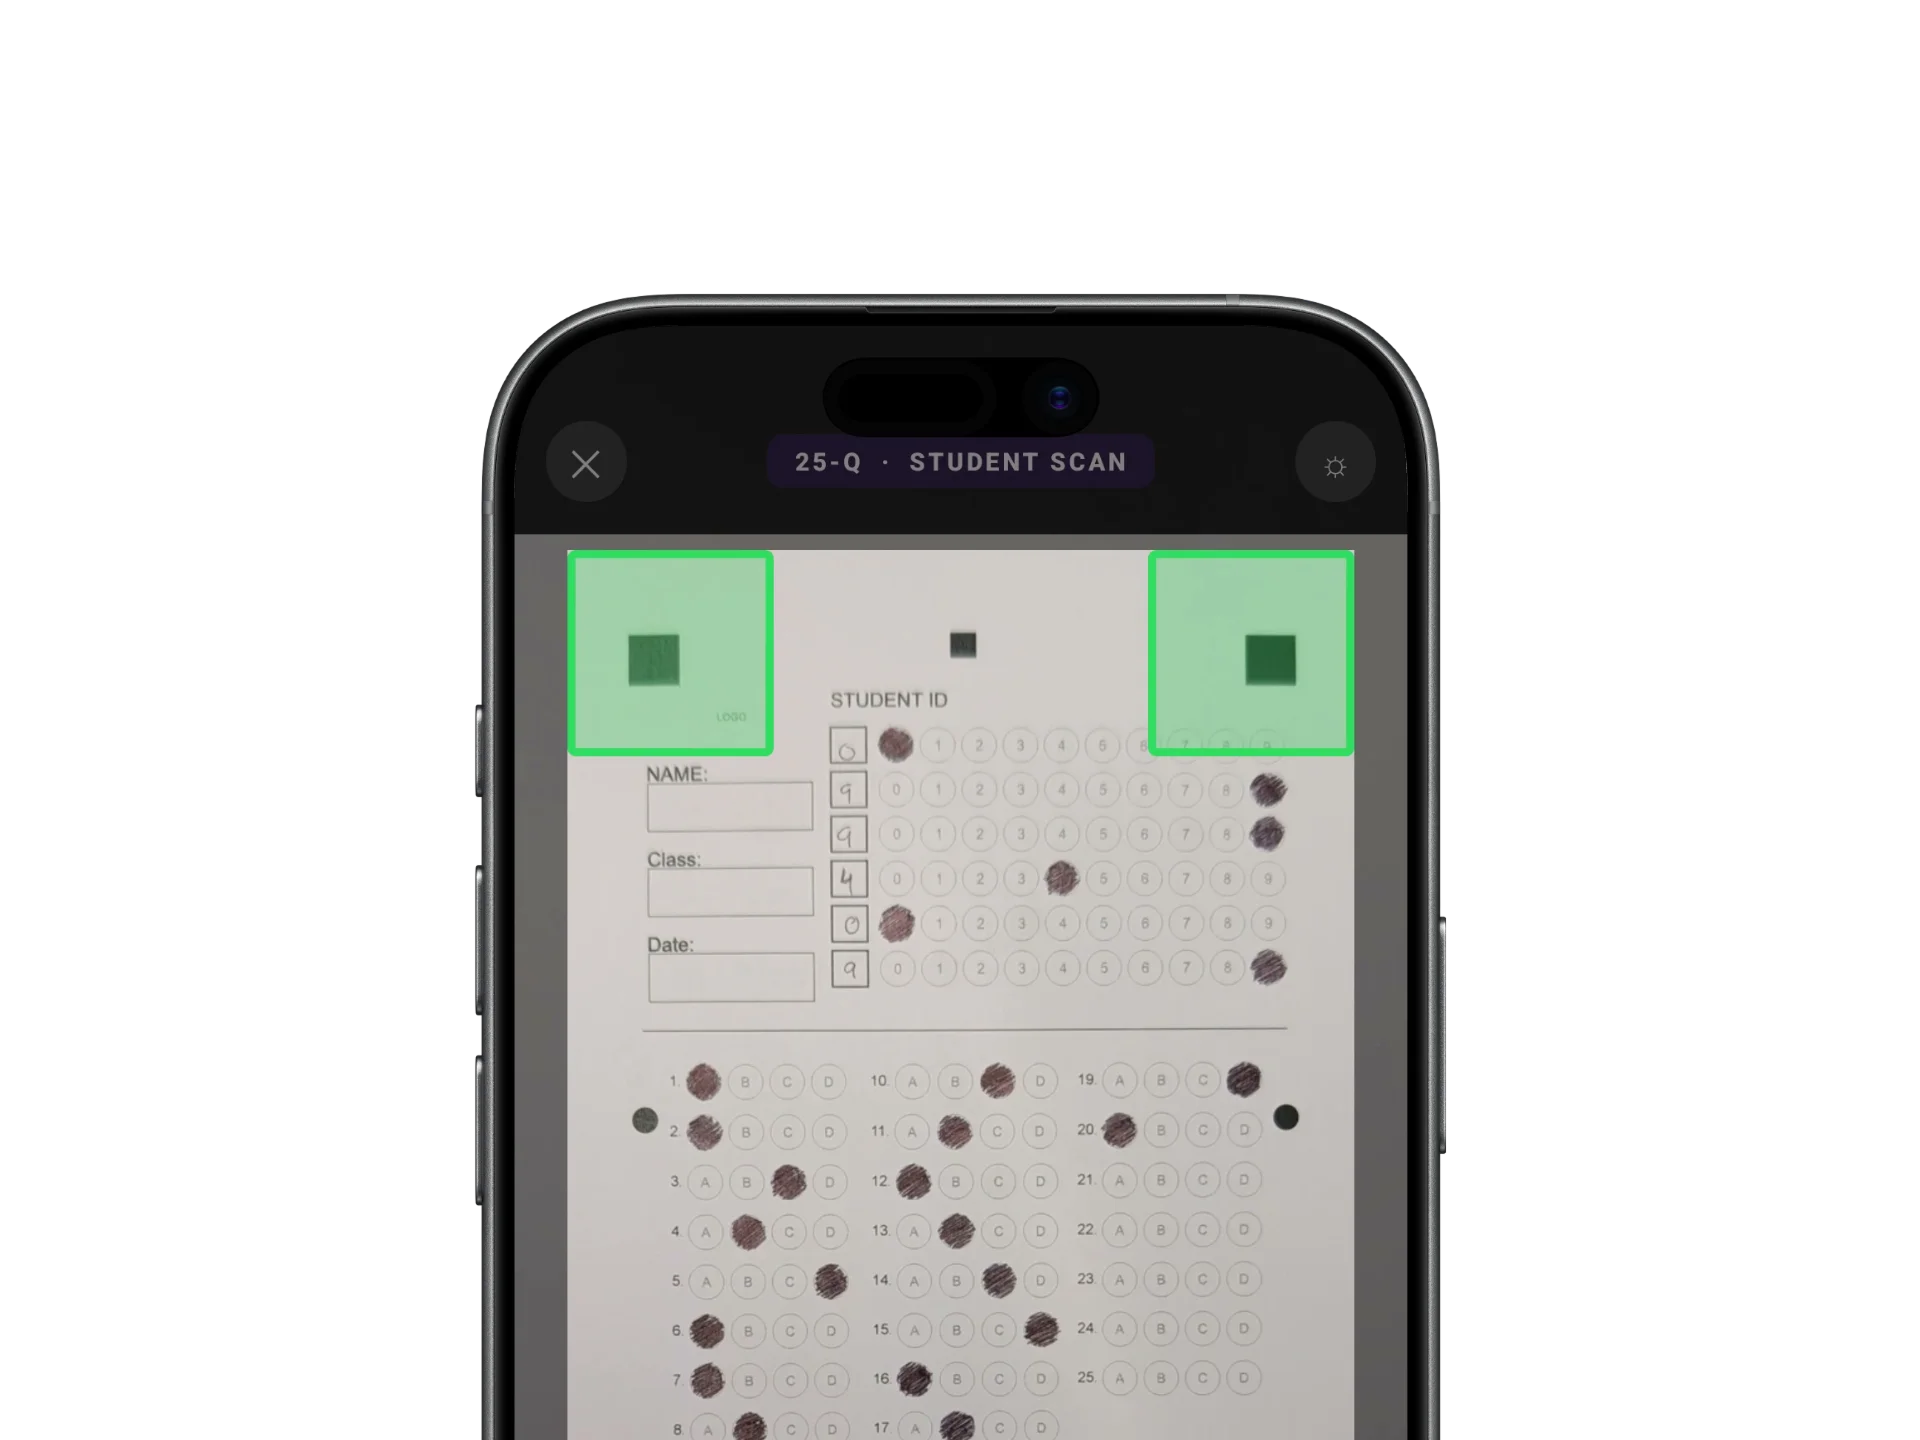
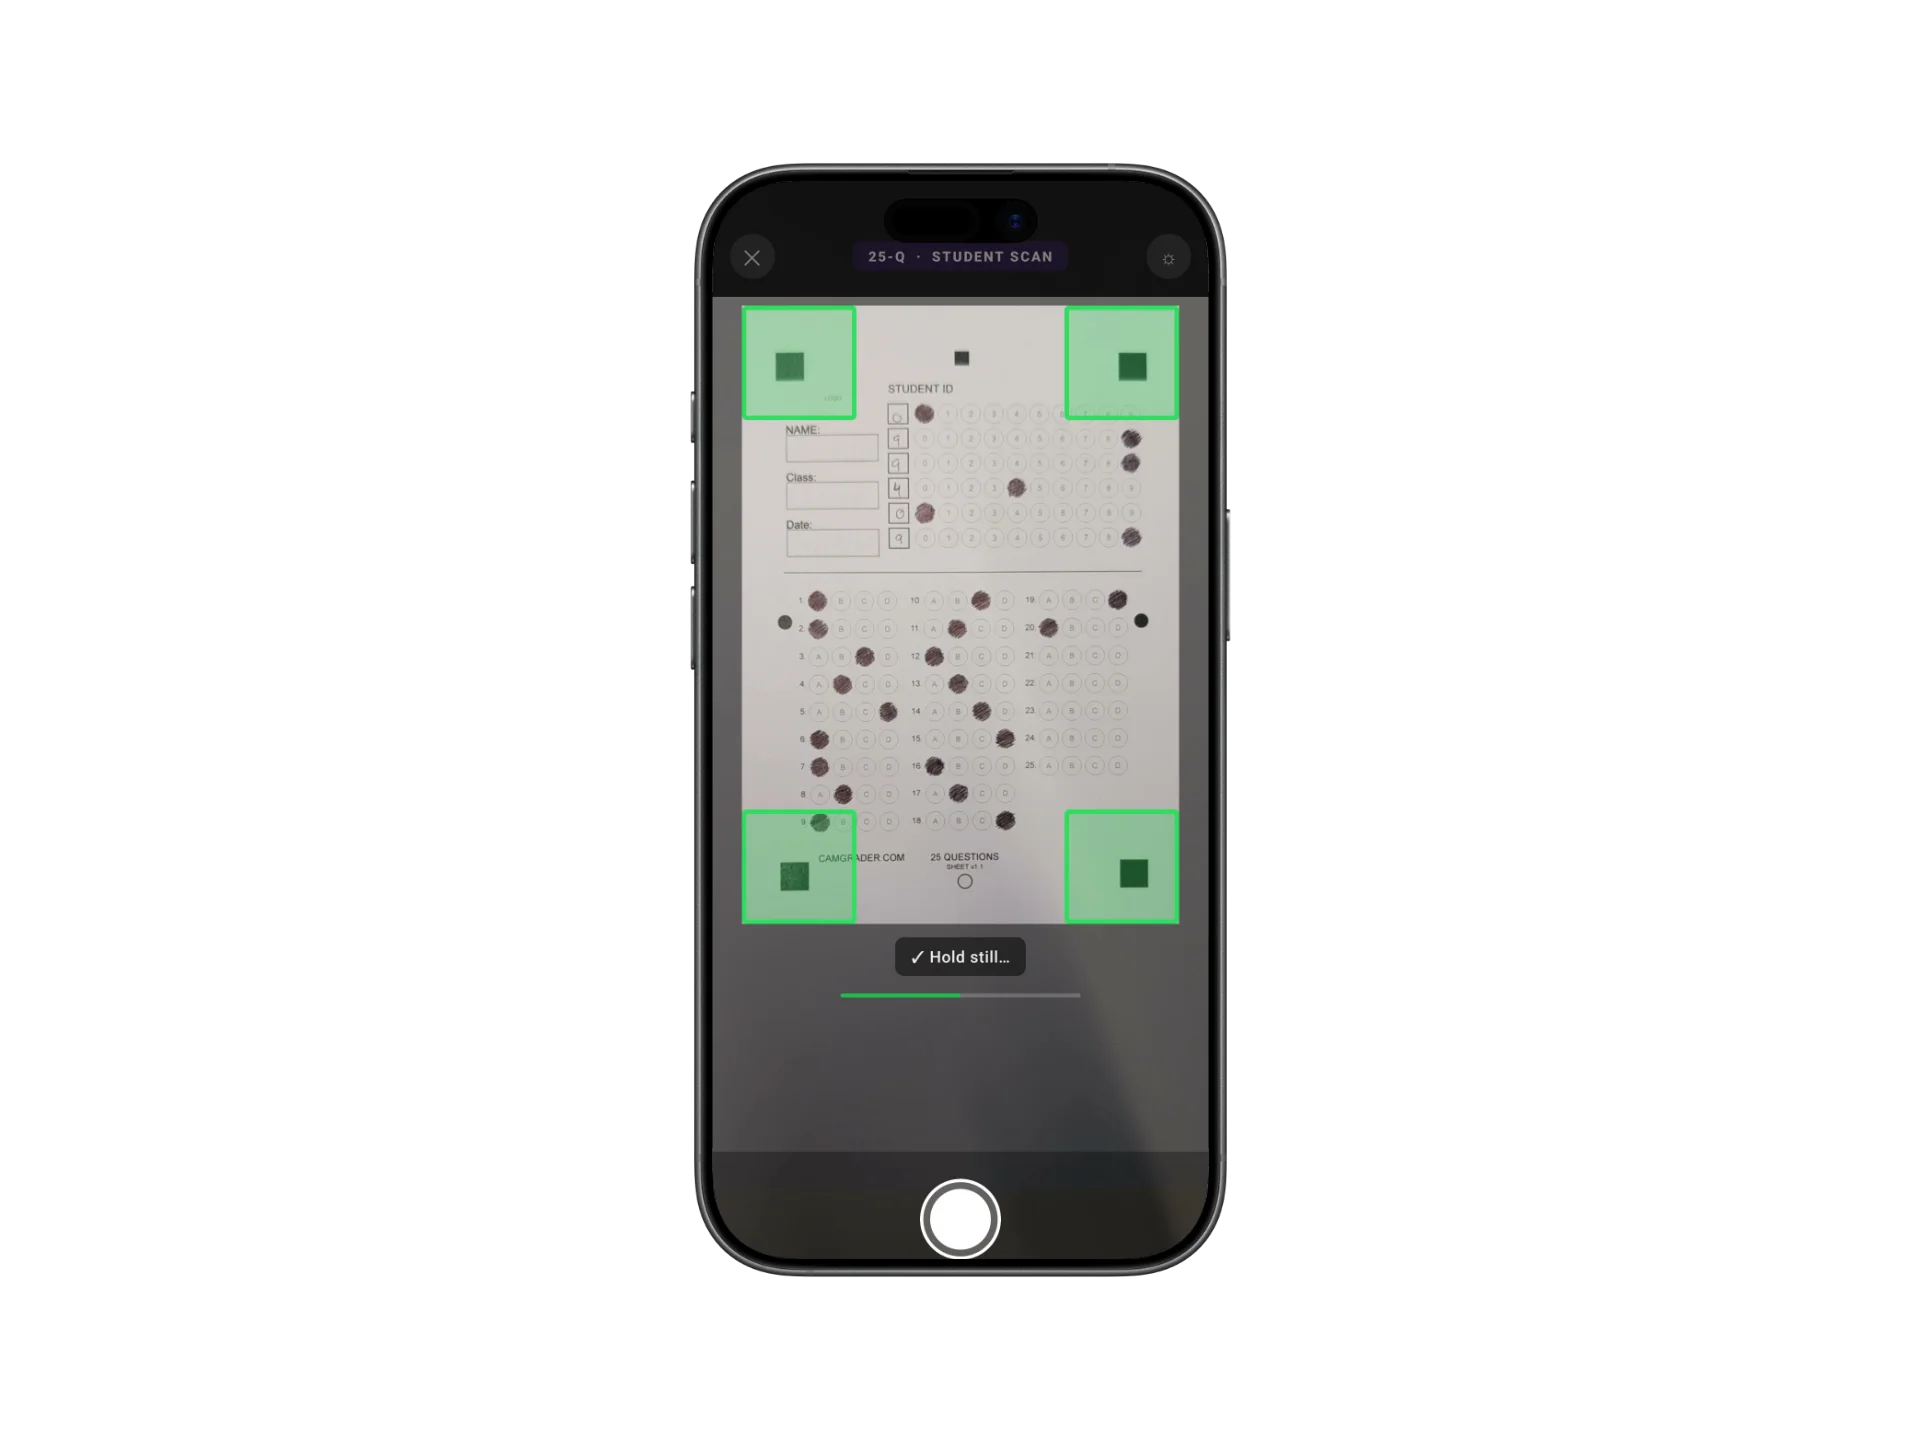
s

diff --git a/index.html b/index.html
@@ -426,7 +426,9 @@ height="0" width="0" style="display:none;visibility:hidden"></iframe></noscript>
     <!-- Feature 1 -->
     <div class="feature-section">
       <div class="feature-row">
-        <div class="feature-visual" aria-hidden="true">📋</div>
+        <div class="feature-visual">
+          <img src="images/card1a.webp" alt="CamGrader scanning a bubble sheet" loading="lazy">
+        </div>
         <div>
           <h3 class="heading-3">Instant optical grading</h3>
           <p class="body-lg" style="margin-top:12px;">CamGrader's computer vision reads filled bubbles in real time, right on your device. No special hardware, no setup. Just your phone's camera.</p>
@@ -442,7 +444,9 @@ height="0" width="0" style="display:none;visibility:hidden"></iframe></noscript>
     <!-- Feature 2 -->
     <div class="feature-section">
       <div class="feature-row reverse">
-        <div class="feature-visual" aria-hidden="true">📊</div>
+        <div class="feature-visual">
+          <img src="images/card2a.webp" alt="CamGrader results screen showing student scores" loading="lazy">
+        </div>
         <div>
           <h3 class="heading-3">Real results, right away</h3>
           <p class="body-lg" style="margin-top:12px;">Score summaries, per question analytics, and class averages are ready the moment your last sheet is scanned.</p>
@@ -458,14 +462,16 @@ height="0" width="0" style="display:none;visibility:hidden"></iframe></noscript>
     <!-- Feature 3 -->
     <div class="feature-section">
       <div class="feature-row">
-        <div class="feature-visual" aria-hidden="true">🔒</div>
+        <div class="feature-visual">
+          <img src="images/card4a.webp" alt="CamGrader CSV export screen" loading="lazy">
+        </div>
         <div>
-          <h3 class="heading-3">Private by design</h3>
-          <p class="body-lg" style="margin-top:12px;">Student scores, IDs, and test data are stored in a local encrypted database on your device. No student data is ever shared with third parties.</p>
+          <h3 class="heading-3">From scan to gradebook in seconds.</h3>
+          <p class="body-lg" style="margin-top:12px;">The moment your last sheet is scanned, your results are ready to export. One CSV file, compatible with Google Sheets, Excel, Canvas, or any gradebook and LMS your school uses.</p>
           <ul class="feature-list">
-            <li>No account required to start scanning</li>
-            <li>FERPA-friendly architecture</li>
-            <li>Student data is never sold or shared</li>
+            <li>Export after every scan or batch the whole class</li>
+            <li>Compatible with any gradebook or spreadsheet</li>
+            <li>One tap. No reformatting, no copying by hand</li>
           </ul>
         </div>
       </div>

diff --git a/css/main.css b/css/main.css
@@ -389,11 +389,13 @@ a   { color: inherit; text-decoration: none; }
   border: 1px solid rgba(94,64,116,0.18);
   border-radius: var(--radius-xl);
   aspect-ratio: 4/3;
-  display: flex;
-  align-items: center;
-  justify-content: center;
-  font-size: 64px;
-  color: var(--plum-light);
+  overflow: hidden;
+}
+.feature-visual img {
+  width: 100%;
+  height: 100%;
+  object-fit: cover;
+  display: block;
 }
 
 .feature-list {
